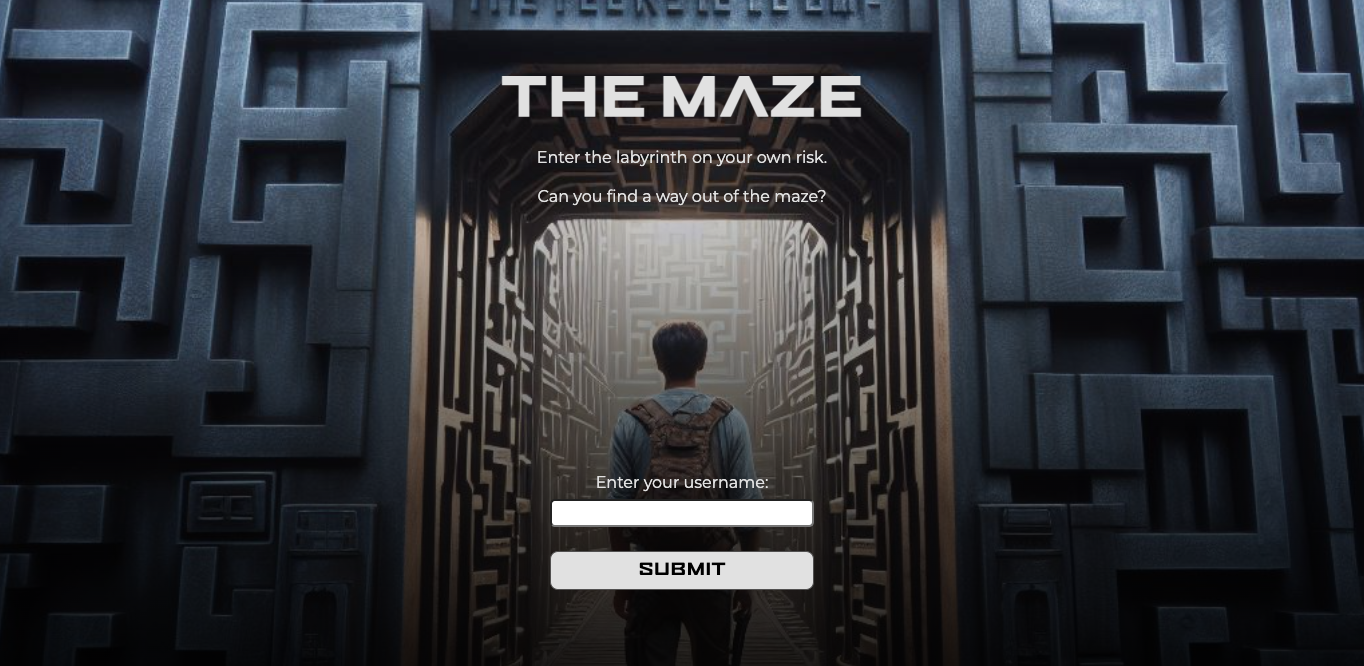
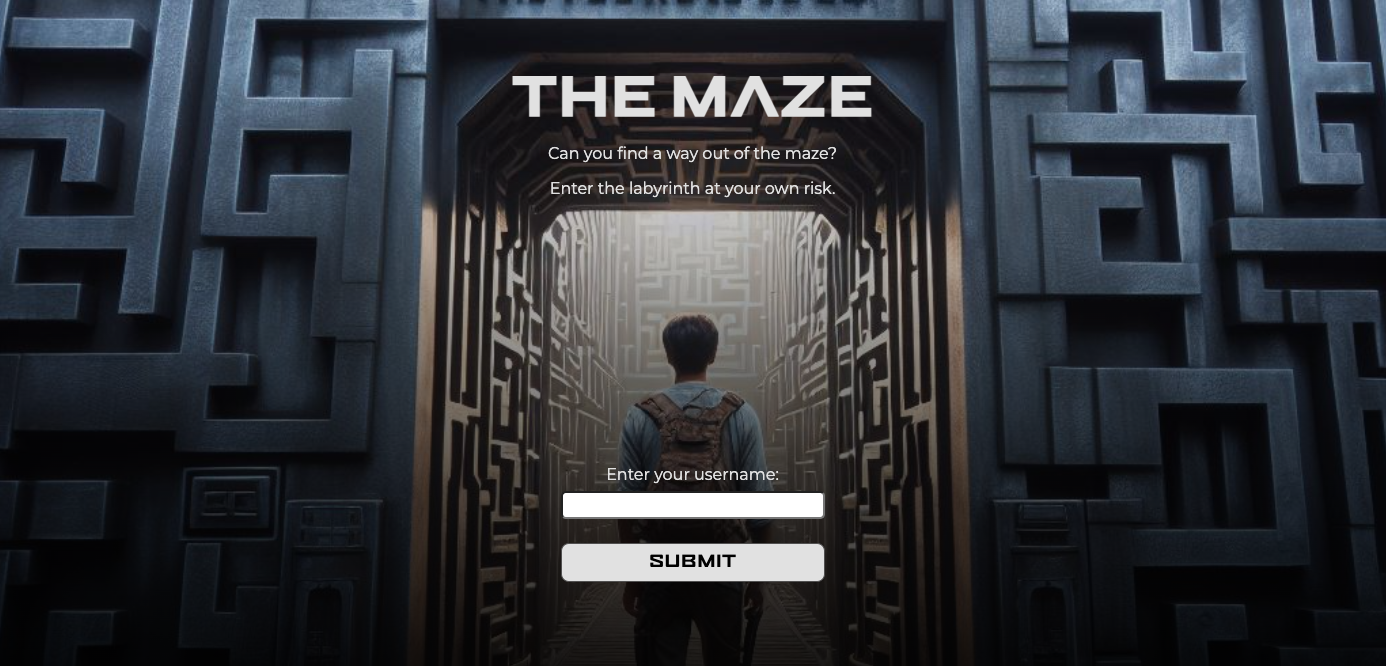
changed some image

diff --git a/src/components/Username.jsx b/src/components/Username.jsx
@@ -31,8 +31,8 @@ export const Username = () => {
     <div className='start-background'>
       <div className='main-container'>
         <h1>THE MAZE</h1>
-        <p>Enter the labyrinth on your own risk.</p>
         <p>Can you find a way out of the maze?</p>
+        <p>Enter the labyrinth at your own risk.</p>
         <br />
       </div>
       <form onSubmit={handleSubmit}>

diff --git a/index.html b/index.html
@@ -5,7 +5,7 @@
     <link
       rel="icon"
       type="image/png"
-      href="/maze.png" />
+      href="public/maze.png" />
     <meta
       name="viewport"
       content="width=device-width, initial-scale=1.0" />

diff --git a/src/styles/Username.css b/src/styles/Username.css
@@ -12,6 +12,10 @@
   padding: 8rem 0 10rem;
 }
 
+.main-container > p {
+  margin: 1rem 1rem 0.5rem;
+}
+
 form {
   display: flex;
   flex-direction: column;
